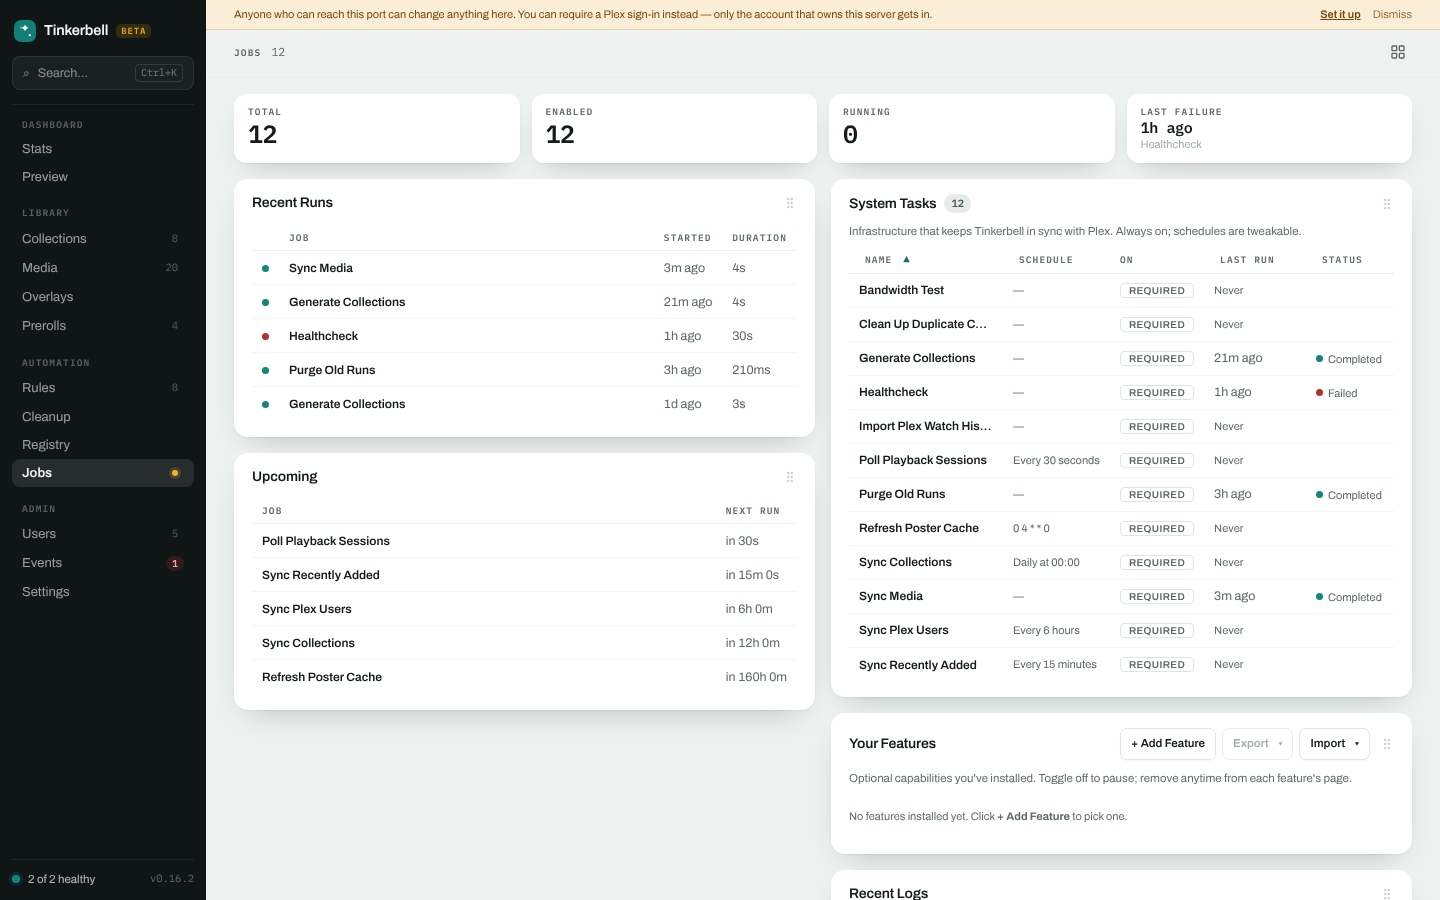
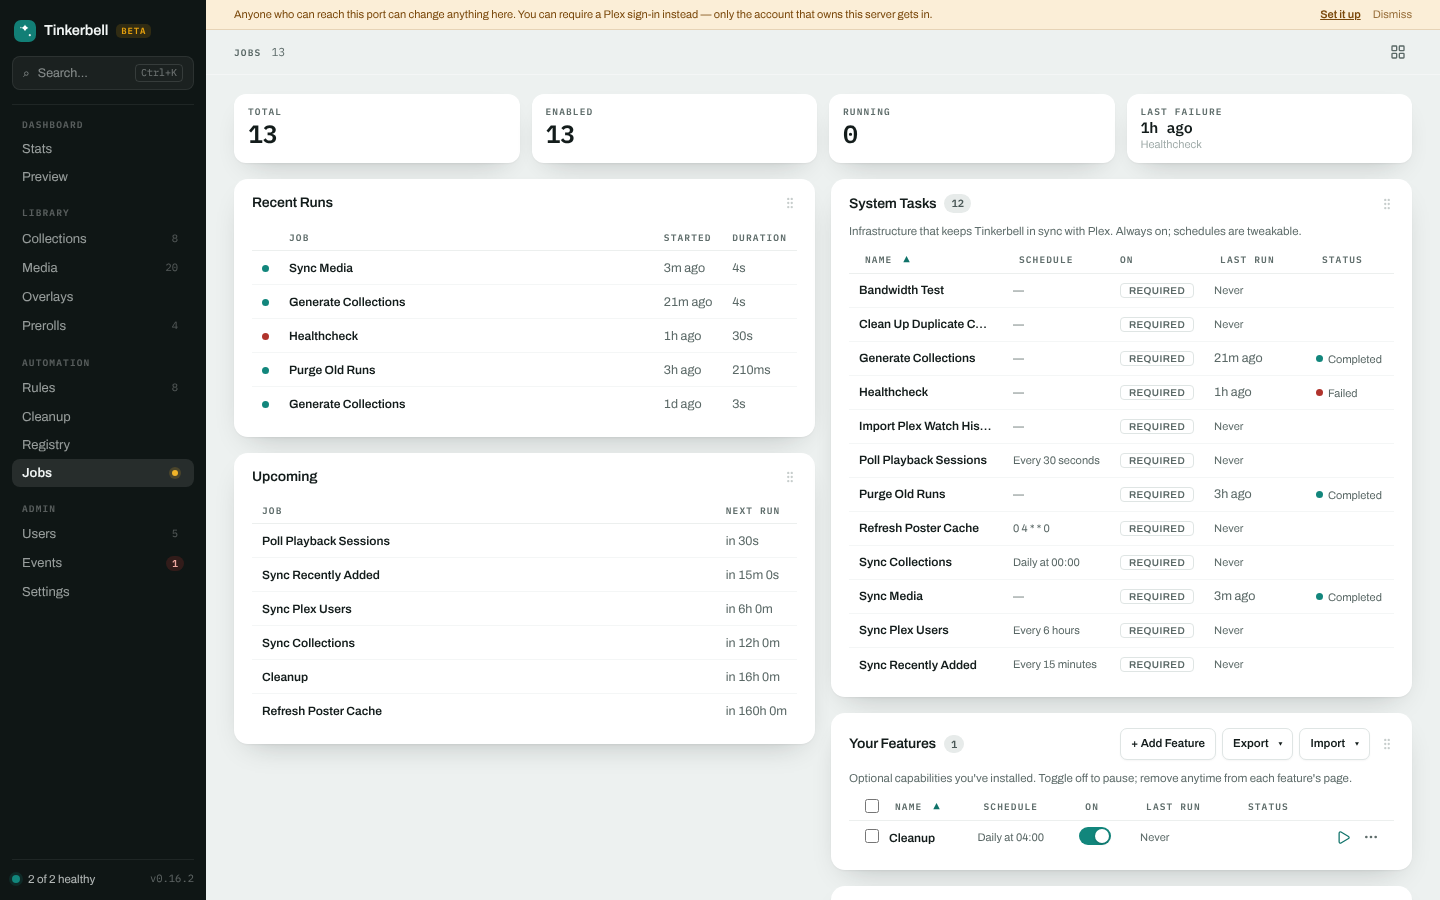
feat(jobs): cleanup runs as its own job, separate from generate
Building shelves and removing files are different things to the person running
the server, and they were sharing a job row, a schedule and a run history. A
run that deleted six films read as a line in the middle of a collection build.

So the batch jobs split by ending: `generate` owns the collection rules,
`cleanup` owns the rest, on its own schedule (4am — after sync-media so the
index the guards read is fresh, after generate, clear of purge-runs). They
share the batch engine, because a rule is (selection) → (action) and only the
action differs — duplicating resume, concurrency and per-rule failure handling
to express that would copy the hard part twice.

The dispatch branch stays: a scheduled run only ever goes one way now, but
"Run" on the Rules page still runs whichever single rule was clicked.

The destructive ceiling is unaffected — it counts from the ledger rather than
per run, which the previous commit fixed precisely so this split couldn't
double it. Covered by a disjoint-ownership pair in the integration suite: each
job must leave the other's rules entirely alone, or a cleanup rule would
advance its streak twice a night and act in half the runs asked for.

Changed region(s): [[0.5625, 0.8711, 0.9688, 1.0], [0.1562, 0.7467, 0.5625, 0.8089]]

diff --git a/packages/jobs/src/commands/generate/index.ts b/packages/jobs/src/commands/generate/index.ts
@@ -4,6 +4,7 @@ import { plexHealthCallback } from "@tinkerbell/core";
 import {
   getEnabledRules,
   getRule,
+  type Rule,
   setRuleArrCounts,
   setRuleLastCollection,
   setRuleLastRun,
@@ -14,6 +15,7 @@ import { forgetCollections } from "@tinkerbell/domain.collections";
 import { errorMessage } from "@tinkerbell/core";
 import { createLogger, noopCheckpoint, type JobContext, type GenerateJobConfig } from "@tinkerbell/core";
 
+import { isCleanupRule } from "@tinkerbell/contracts";
 import { parseRuleConfig } from "./config.ts";
 import { runHandler } from "./dispatch.ts";
 import { createCleanupBudget } from "./cleanup.ts";
@@ -37,11 +39,34 @@ const runRuleLog = createLogger("run-rule");
 const SINGLE_RUN_LOCK_WAIT_MS = 15_000;
 
 /**
- * Batch entry point: run every enabled rule against the configured Plex
- * server. Sections per rule = rule-level filter ∩ job-level filter ∩
- * globally-configured libraries.
+ * What one batch job owns.
+ *
+ * Collection rules and cleanup rules run as separate jobs — separate rows,
+ * schedules and run histories — because they are separate things to a user:
+ * one builds shelves, the other removes files. They share this engine because
+ * a rule is (selection) → (action) and only the action differs; duplicating
+ * resume, concurrency and per-rule failure handling to express that would be
+ * two copies of the hard part and one copy of the easy one.
  */
-export default async function run(ctx: JobContext, config: GenerateJobConfig): Promise<void> {
+interface BatchOptions {
+  /** Which rules this job is responsible for. */
+  owns: (rule: Rule) => boolean;
+  /** Plural noun for the log lines, e.g. "cleanup rule(s)". */
+  noun: string;
+  /**
+   * The one-time sweep of pre-`Rule:` "Generated" collections. Belongs to the
+   * collection job alone — it is about collections this app used to make, and
+   * running it from both would double the Plex calls to no purpose.
+   */
+  sweepLegacyLabels?: boolean;
+}
+
+/**
+ * Batch entry point: run every enabled rule this job owns against the
+ * configured Plex server. Sections per rule = rule-level filter ∩ job-level
+ * filter ∩ globally-configured libraries.
+ */
+export async function runBatch(ctx: JobContext, config: GenerateJobConfig, opts: BatchOptions): Promise<void> {
   const { client, machineId, allSections } = await connectPlex(ctx);
   const jobSectionsOrNull = filterSections(allSections, config.sections);
   if (jobSectionsOrNull === null) {
@@ -49,13 +74,13 @@ export default async function run(ctx: JobContext, config: GenerateJobConfig): P
   }
   const jobSections = jobSectionsOrNull ?? allSections;
 
-  const enabledRules = getEnabledRules();
+  const enabledRules = getEnabledRules().filter((r) => opts.owns(r));
   if (enabledRules.length === 0) {
-    ctx.log("No enabled rules found. Configure rules in the admin UI.");
+    ctx.log(`No enabled ${opts.noun} found. Configure rules in the admin UI.`);
     return;
   }
 
-  ctx.log(`Found ${enabledRules.length} enabled rule(s).`);
+  ctx.log(`Found ${enabledRules.length} enabled ${opts.noun}.`);
 
   // Resume whatever a previous run abandoned. `generate` is the longest job in
   // the system and container restarts on a home server are routine, so
@@ -83,11 +108,13 @@ export default async function run(ctx: JobContext, config: GenerateJobConfig): P
     } satisfies GenerateCheckpoint);
 
   // One-time migration: delete old "Generated"-labeled collections.
-  for (const section of jobSections) {
-    const deleted = await client.deleteCollectionsByLabel(section.key, "Generated");
-    forgetCollections(deleted);
-    if (deleted.length > 0) {
-      ctx.log(`Migrated: deleted ${deleted.length} old "Generated"-labeled collection(s) from "${section.title}".`);
+  if (opts.sweepLegacyLabels) {
+    for (const section of jobSections) {
+      const deleted = await client.deleteCollectionsByLabel(section.key, "Generated");
+      forgetCollections(deleted);
+      if (deleted.length > 0) {
+        ctx.log(`Migrated: deleted ${deleted.length} old "Generated"-labeled collection(s) from "${section.title}".`);
+      }
     }
   }
 
@@ -101,10 +128,10 @@ export default async function run(ctx: JobContext, config: GenerateJobConfig): P
   const concurrency = Math.min(config.ruleConcurrency ?? RULE_CONCURRENCY_DEFAULT, enabledRules.length);
   if (concurrency > 1) ctx.log(`Running up to ${concurrency} rules at a time.`);
 
-  // One destructive-action budget for the whole run, shared by every cleanup
-  // rule. Per-rule caps don't compose — five rules each under their own limit
-  // of 30 can still empty a library — so the ceiling has to be global, which
-  // means a single mutable object threaded through the concurrent rule loop.
+  // The destructive-action ceiling, shared by every cleanup rule in this run
+  // and by anything else acting today — it counts from the candidate ledger,
+  // not from this process. Created once per run so a long run reads a stable
+  // starting figure.
   const cleanupBudget = createCleanupBudget();
 
   /** Everything one rule does, start to finish. Never throws except on abort. */
@@ -248,6 +275,33 @@ export default async function run(ctx: JobContext, config: GenerateJobConfig): P
     for (const name of skipped) ctx.log(`  - "${name}"`);
   }
   ctx.log("\nAll done!");
+}
+
+/**
+ * The nightly collection build. Everything whose ending is "make a shelf".
+ */
+export default function run(ctx: JobContext, config: GenerateJobConfig): Promise<void> {
+  return runBatch(ctx, config, {
+    owns: (rule) => !isCleanupRule(parseRuleConfig(rule)),
+    noun: "collection rule(s)",
+    sweepLegacyLabels: true,
+  });
+}
+
+/**
+ * The cleanup pass. Everything whose ending is "remove this".
+ *
+ * A separate job rather than a branch inside the one above: its runs are worth
+ * reading on their own, it wants its own schedule (late, after the library has
+ * synced and the collections are built), and a run that deletes files should
+ * not share a history with one that builds shelves. The destructive ceiling is
+ * unaffected by the split — it counts from the ledger, not per run.
+ */
+export function runCleanup(ctx: JobContext, config: GenerateJobConfig): Promise<void> {
+  return runBatch(ctx, config, {
+    owns: (rule) => isCleanupRule(parseRuleConfig(rule)),
+    noun: "cleanup rule(s)",
+  });
 }
 
 interface GenerateCheckpoint {

diff --git a/packages/jobs/src/commands/generate/cleanup.integration.test.ts b/packages/jobs/src/commands/generate/cleanup.integration.test.ts
@@ -9,8 +9,8 @@
  * and *Arr clients putting real requests on the wire, and the ledger surviving
  * between separate invocations of the job.
  *
- * So this drives `run()` — the actual entry point the scheduler calls — three
- * times against real HTTP mock servers, and asserts on what those servers were
+ * So this drives `runCleanup()` — the actual entry point the scheduler calls
+ * for a cleanup rule — three times against real HTTP mock servers, and asserts on what those servers were
  * actually asked to do. The manual verification in `media-lifecycle.md` asks
  * for exactly this sequence: run it three times under dry run, confirm the
  * shelf and the logs, then turn dry run off and confirm precisely the expected
@@ -33,7 +33,10 @@ const { setConfig, noopCheckpoint } = await import("@tinkerbell/core");
 const { listCandidates } = await import("@tinkerbell/domain.cleanup");
 const { startMockPlex } = await import("../../test-support/mock-plex-server.ts");
 const { startMockRadarr } = await import("../../test-support/mock-arr-server.ts");
-const run = (await import("./index.ts")).default;
+// The batch jobs are split by ending, so there are two entry points: the
+// `cleanup` job owns these rules, and `generate` owns the collection rule the
+// back-compat test at the bottom uses as its control.
+const { runCleanup, default: runGenerateJob } = await import("./index.ts");
 
 const RULE_ID = "e2e-cleanup";
 const SECTIONS = [{ key: "1", title: "Films", type: "movie" }];
@@ -141,7 +144,14 @@ function seedFreshIndex(): void {
 
 async function runGenerate(): Promise<string[]> {
   const { ctx, log } = testContext();
-  await run(ctx, {});
+  await runCleanup(ctx, {});
+  return log;
+}
+
+/** The other job, for asserting a collection rule is unaffected by all this. */
+async function runCollections(): Promise<string[]> {
+  const { ctx, log } = testContext();
+  await runGenerateJob(ctx, {});
   return log;
 }
 
@@ -415,10 +425,33 @@ describe("unmonitor mode, through the real job", () => {
 
 // ─── Back-compat ─────────────────────────────────────────────────────────────
 
+describe("the two jobs own disjoint rules", () => {
+  it("generate leaves a cleanup rule alone — no ledger rows, no shelf", async () => {
+    // The split's whole point. If generate still picked these up, a cleanup
+    // rule would advance its streak twice a night and reach its threshold in
+    // half the runs the user asked for.
+    seedRule({ kind: "cleanup", mode: "delete", consecutiveRuns: 3, dryRun: false });
+    const log = await runCollections();
+
+    assert.match(log.join("\n"), /No enabled collection rule\(s\) found/);
+    assert.deepEqual(listCandidates(RULE_ID), [], "no streak was advanced");
+    assert.deepEqual(plex.journal.createdCollections, [], "no queue shelf was built");
+    assert.deepEqual(arr.journal.deletes, []);
+  });
+
+  it("cleanup leaves a collection rule alone", async () => {
+    seedRule({ kind: "collection" });
+    const log = await runGenerate();
+
+    assert.match(log.join("\n"), /No enabled cleanup rule\(s\) found/);
+    assert.deepEqual(plex.journal.createdCollections, [], "the collection job builds those, not this one");
+  });
+});
+
 describe("a collection rule is untouched by any of this", () => {
   it("builds a collection and writes no ledger rows", async () => {
     seedRule({ kind: "collection" });
-    const log = await runGenerate();
+    const log = await runCollections();
 
     assert.doesNotMatch(log.join("\n"), /\[cleanup\]/);
     assert.deepEqual(listCandidates(RULE_ID), []);

diff --git a/packages/jobs/src/commands/generate/run.test.ts b/packages/jobs/src/commands/generate/run.test.ts
@@ -20,7 +20,7 @@ const { db, rules, config } = await import("@tinkerbell/db");
 const { setConfig, noopCheckpoint } = await import("@tinkerbell/core");
 const { llmUnavailableReason } = await import("./ai/llm.ts");
 const { withItemCache } = await import("./item-cache.ts");
-const run = (await import("./index.ts")).default;
+const { default: run, runCleanup } = await import("./index.ts");
 
 const SECTIONS = [
   { key: "1", title: "Films", type: "movie" },
@@ -217,10 +217,13 @@ describe("generate: rule actions", () => {
   });
 
   it("a cleanup rule routes to the cleanup executor and records rather than acts", async () => {
+    // Through `runCleanup`: the batch jobs are split by ending, so a cleanup
+    // rule is not `generate`'s to run. The two-jobs-own-disjoint-rules pair in
+    // cleanup.integration.test.ts covers that boundary itself.
     seedRule("Reclaim", "top_rated", { limit: 5, action: { kind: "cleanup", mode: "delete" } }, 1);
 
     const { ctx, log } = testContext();
-    await run(ctx, {});
+    await runCleanup(ctx, {});
 
     const text = log.join("\n");
     assert.match(text, /\[cleanup\]/);

diff --git a/apps/web/src/pages/Jobs/GenerateJob.tsx b/apps/web/src/pages/Jobs/GenerateJob.tsx
@@ -11,7 +11,15 @@ import JobConfigRows from "./shared/JobConfigRows";
 import styles from "#pages/Jobs/Jobs.module.css";
 import type { JobPageProps } from "./types";
 
+/**
+ * Config page for both batch rule jobs.
+ *
+ * `generate` and `cleanup` run the same engine over different rules, so they
+ * take the same settings — libraries and how many rules at a time. Only the
+ * list they send you to differs.
+ */
 export default function GenerateJob({ job }: JobPageProps) {
+  const isCleanup = job.command === "cleanup";
   const utils = trpc.useUtils();
   const actions = useJobActions(job);
   const [sections, setSections] = useState<string[]>([]);
@@ -76,7 +84,9 @@ export default function GenerateJob({ job }: JobPageProps) {
           <tr>
             <td className={styles.fieldLabel}>Rules</td>
             <td>
-              <Link to="/rules">Manage rules &rarr;</Link>
+              <Link to={isCleanup ? "/cleanup/rules" : "/rules"}>
+                {isCleanup ? "Manage cleanup rules" : "Manage rules"} &rarr;
+              </Link>
             </td>
           </tr>
         </ConfigPanel>

diff --git a/packages/jobs/src/commands/catalog.ts b/packages/jobs/src/commands/catalog.ts
@@ -43,6 +43,9 @@ const DEFAULT_TIMEOUT_MS = 30 * MINUTE_MS;
 export const COMMANDS = {
   // ── Scheduled batch work ───────────────────────────────────────────────
   generate: { load: () => import("./generate.ts"), lane: "default", timeoutMs: 4 * HOUR_MS },
+  // Same engine as `generate`, so the same generous budget: selection is the
+  // expensive half and cleanup rules run the same handlers.
+  cleanup: { load: () => import("./cleanup.ts"), lane: "default", timeoutMs: 4 * HOUR_MS },
   "sync-media": { load: () => import("./sync-media.ts"), lane: "default", timeoutMs: 2 * HOUR_MS },
   "sync-collections": { load: () => import("./sync-collections.ts"), lane: "default", timeoutMs: DEFAULT_TIMEOUT_MS },
   "sync-users": { load: () => import("./sync-users.ts"), lane: "default", timeoutMs: DEFAULT_TIMEOUT_MS },

diff --git a/packages/jobs/src/runner.ts b/packages/jobs/src/runner.ts
@@ -43,6 +43,10 @@ export const DEFAULT_JOBS: (Omit<Job, "config" | "command"> & { command: JobComm
   { id: "sync-media", name: "Sync Media", command: "sync-media", schedule: "0 0 * * *", enabled: 1 },
   { id: "sync-collections", name: "Sync Collections", command: "sync-collections", schedule: "0 0 * * *", enabled: 1 },
   { id: "generate", name: "Generate Collections", command: "generate", schedule: "0 1 * * *", enabled: 1 },
+  // 4am: after sync-media (midnight) so the library index the cleanup guards
+  // read is fresh, after generate (1am) so a rule's shelf reflects the night's
+  // collections, and clear of purge-runs (3am).
+  { id: "cleanup", name: "Cleanup", command: "cleanup", schedule: "0 4 * * *", enabled: 1 },
   { id: "purge-runs", name: "Purge Old Runs", command: "purge-runs", schedule: "0 3 * * *", enabled: 1 },
   {
     id: "sync-recently-added",

diff --git a/packages/jobs/src/commands/generate/dispatch.ts b/packages/jobs/src/commands/generate/dispatch.ts
@@ -94,6 +94,11 @@ export interface RunHandlerResult {
  *
  * A rule with no `action` in its config is a collection rule, so nothing
  * predating this branch changes behaviour or needs migrating.
+ *
+ * The batch jobs are split by ending — `generate` owns the collection rules,
+ * `cleanup` owns the rest — so in a scheduled run this branch only ever goes
+ * one way. It stays a branch because the ad-hoc path doesn't: "Run" on the
+ * Rules page runs whichever single rule the user clicked.
  */
 export async function runHandler(
   deps: HandlerDeps,

diff --git a/apps/tinkerbell.dev/harness/shots.ts b/apps/tinkerbell.dev/harness/shots.ts
@@ -256,6 +256,12 @@ export const SHOTS: Shot[] = [
     settleMs: 700,
   },
   {
+    name: "12-job-detail-cleanup",
+    description: "Job detail — Cleanup, the batch job that runs the removal rules",
+    path: "/jobs/cleanup",
+    settleMs: 700,
+  },
+  {
     name: "13-job-run",
     description: "Run log — run stats over the dark log viewer",
     path: "/jobs/runs/run-generate-1",

diff --git a/packages/jobs/src/commands/cleanup.ts b/packages/jobs/src/commands/cleanup.ts
@@ -1,0 +1,8 @@
+/**
+ * The cleanup pass, as its own job.
+ *
+ * Shares the batch engine with `generate` — same selection handlers, same
+ * resume, same concurrency — and differs only in which rules it owns. See
+ * `runCleanup` for why it is a separate job rather than a branch.
+ */
+export { runCleanup as default } from "./generate/index.ts";

diff --git a/apps/web/src/pages/Jobs/registry.ts b/apps/web/src/pages/Jobs/registry.ts
@@ -7,6 +7,8 @@ import BecauseYouWatchedJob from "./BecauseYouWatched";
 
 const registry: Record<string, ComponentType<JobPageProps>> = {
   generate: GenerateJob,
+  // Same engine, same settings — only the rules it links to differ.
+  cleanup: GenerateJob,
   "purge-runs": PurgeRunsJob,
   "because-you-watched": BecauseYouWatchedJob,
 };
